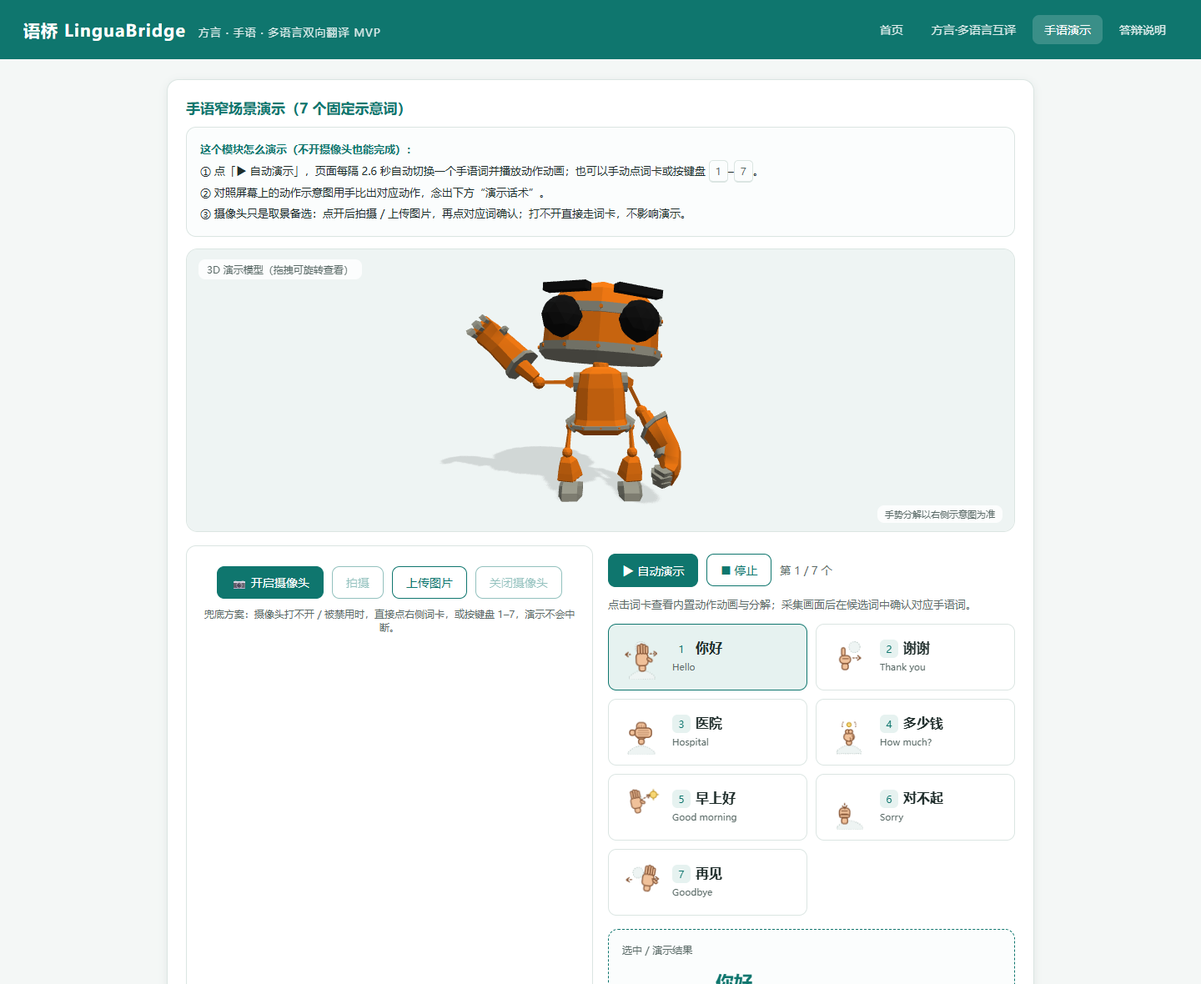
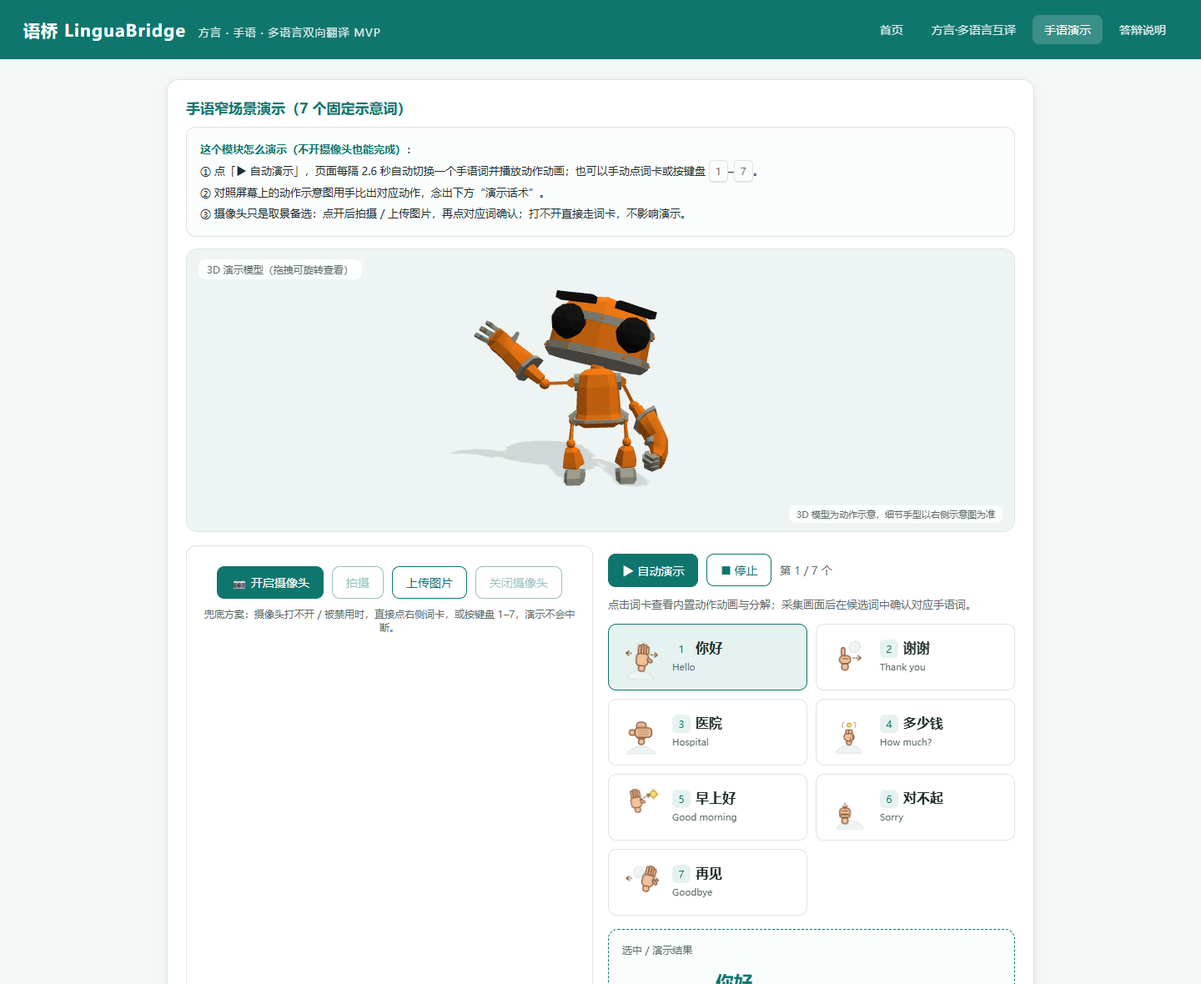
feat: 7 手语词各自绑定骨骼动画 + 粤语双向翻译（词库+两段式级联）

diff --git a/index.html b/index.html
@@ -147,33 +147,34 @@
 <script>
 /* ================= 离线演示词库 ================= */
 const PHRASES = [
-  {zh:"你好", sc:"你好呀", en:"Hello", ja:"こんにちは", ru:"Здравствуйте", scene:"问候"},
-  {zh:"谢谢", sc:"多谢了", en:"Thank you", ja:"ありがとうございます", ru:"Спасибо", scene:"感谢"},
-  {zh:"医院怎么走", sc:"医院咋个走", en:"How do I get to the hospital?", ja:"病院へはどう行きますか？", ru:"Как пройти в больницу?", scene:"问路·就医"},
-  {zh:"多少钱", sc:"好多钱", en:"How much is it?", ja:"いくらですか？", ru:"Сколько это стоит?", scene:"购物"},
-  {zh:"早上好", sc:"早上好哦", en:"Good morning", ja:"おはようございます", ru:"Доброе утро", scene:"问候"},
-  {zh:"对不起", sc:"对不住", en:"Sorry", ja:"ごめんなさい", ru:"Извините", scene:"道歉"},
-  {zh:"再见", sc:"下回摆", en:"Goodbye", ja:"さようなら", ru:"До свидания", scene:"告别"},
-  {zh:"我不舒服", sc:"我身上不安逸", en:"I don't feel well", ja:"気分が悪いです", ru:"Мне нездоровится", scene:"就医"},
-  {zh:"请问洗手间在哪", sc:"请问厕所在哪点儿", en:"Where is the restroom?", ja:"トイレはどこですか？", ru:"Где туалет?", scene:"问路"},
-  {zh:"帮我叫一下医生", sc:"帮我喊下医生", en:"Please call a doctor", ja:"医者を呼んでください", ru:"Пожалуйста, позовите врача", scene:"就医"},
-  {zh:"我想去医院看医生", sc:"我想去医院看下医生", en:"I want to go to the hospital to see a doctor", ja:"病院へ行って医者を診てもらいたいです", ru:"Я хочу пойти в больницу к врачу", scene:"就医"},
-  {zh:"请问附近有药店吗", sc:"请问附近有药店没得", en:"Is there a pharmacy nearby?", ja:"近くに薬局はありますか？", ru:"Рядом есть аптека?", scene:"就医·问路"},
-  {zh:"我有点头疼", sc:"我脑壳有点痛", en:"I have a slight headache", ja:"少し頭が痛いです", ru:"У меня немного болит голова", scene:"就医"},
-  {zh:"这个多少钱", sc:"这个好多钱", en:"How much does this cost?", ja:"これはいくらですか？", ru:"Сколько это стоит?", scene:"购物"},
-  {zh:"我迷路了", sc:"我遭迷路了", en:"I'm lost", ja:"道に迷いました", ru:"Я заблудился", scene:"问路"},
-  {zh:"请慢一点说", sc:"请说慢滴点儿", en:"Please speak slower", ja:"もっとゆっくり話してください", ru:"Пожалуйста, говорите медленнее", scene:"沟通"},
-  {zh:"我需要帮助", sc:"我需要搭个手", en:"I need help", ja:"助けが必要です", ru:"Мне нужна помощь", scene:"沟通"},
-  {zh:"请问地铁站在哪", sc:"请问地铁站在哪点儿", en:"Where is the subway station?", ja:"地下鉄の駅はどこですか？", ru:"Где станция метро?", scene:"问路"},
-  {zh:"今天天气很好", sc:"今天天气巴适得很", en:"The weather is nice today", ja:"今日はいい天気ですね", ru:"Сегодня хорошая погода", scene:"日常"},
-  {zh:"我是学生", sc:"我是学生娃", en:"I am a student", ja:"私は学生です", ru:"Я студент", scene:"介绍"},
-  {zh:"谢谢你的帮助", sc:"多谢你帮忙", en:"Thank you for your help", ja:"助けてくれてありがとうございます", ru:"Спасибо за помощь", scene:"感谢"},
-  {zh:"请帮我翻译这句话", sc:"帮我翻下这句话", en:"Please help me translate this sentence", ja:"この文を訳してください", ru:"Пожалуйста, переведите это предложение", scene:"沟通"}
+  {zh:"你好", sc:"你好呀", en:"Hello", ja:"こんにちは", ru:"Здравствуйте", yue:"你好", scene:"问候"},
+  {zh:"谢谢", sc:"多谢了", en:"Thank you", ja:"ありがとうございます", ru:"Спасибо", yue:"多謝", scene:"感谢"},
+  {zh:"医院怎么走", sc:"医院咋个走", en:"How do I get to the hospital?", ja:"病院へはどう行きますか？", ru:"Как пройти в больницу?", yue:"醫院點行呀？", scene:"问路·就医"},
+  {zh:"多少钱", sc:"好多钱", en:"How much is it?", ja:"いくらですか？", ru:"Сколько это стоит?", yue:"幾錢呀？", scene:"购物"},
+  {zh:"早上好", sc:"早上好哦", en:"Good morning", ja:"おはようございます", ru:"Доброе утро", yue:"早晨", scene:"问候"},
+  {zh:"对不起", sc:"对不住", en:"Sorry", ja:"ごめんなさい", ru:"Извините", yue:"對唔住", scene:"道歉"},
+  {zh:"再见", sc:"下回摆", en:"Goodbye", ja:"さようなら", ru:"До свидания", yue:"再見", scene:"告别"},
+  {zh:"我不舒服", sc:"我身上不安逸", en:"I don't feel well", ja:"気分が悪いです", ru:"Мне нездоровится", yue:"我唔舒服", scene:"就医"},
+  {zh:"请问洗手间在哪", sc:"请问厕所在哪点儿", en:"Where is the restroom?", ja:"トイレはどこですか？", ru:"Где туалет?", yue:"請問洗手間喺邊度？", scene:"问路"},
+  {zh:"帮我叫一下医生", sc:"帮我喊下医生", en:"Please call a doctor", ja:"医者を呼んでください", ru:"Пожалуйста, позовите врача", yue:"幫我叫下醫生", scene:"就医"},
+  {zh:"我想去医院看医生", sc:"我想去医院看下医生", en:"I want to go to the hospital to see a doctor", ja:"病院へ行って医者を診てもらいたいです", ru:"Я хочу пойти в больницу к врачу", yue:"我想去醫院睇醫生", scene:"就医"},
+  {zh:"请问附近有药店吗", sc:"请问附近有药店没得", en:"Is there a pharmacy nearby?", ja:"近くに薬局はありますか？", ru:"Рядом есть аптека?", yue:"請問附近有冇藥房？", scene:"就医·问路"},
+  {zh:"我有点头疼", sc:"我脑壳有点痛", en:"I have a slight headache", ja:"少し頭が痛いです", ru:"У меня немного болит голова", yue:"我個頭少少痛", scene:"就医"},
+  {zh:"这个多少钱", sc:"这个好多钱", en:"How much does this cost?", ja:"これはいくらですか？", ru:"Сколько это стоит?", yue:"呢個幾錢呀？", scene:"购物"},
+  {zh:"我迷路了", sc:"我遭迷路了", en:"I'm lost", ja:"道に迷いました", ru:"Я заблудился", yue:"我蕩失路喇", scene:"问路"},
+  {zh:"请慢一点说", sc:"请说慢滴点儿", en:"Please speak slower", ja:"もっとゆっくり話してください", ru:"Пожалуйста, говорите медленнее", yue:"請講慢少少", scene:"沟通"},
+  {zh:"我需要帮助", sc:"我需要搭个手", en:"I need help", ja:"助けが必要です", ru:"Мне нужна помощь", yue:"我需要幫手", scene:"沟通"},
+  {zh:"请问地铁站在哪", sc:"请问地铁站在哪点儿", en:"Where is the subway station?", ja:"地下鉄の駅はどこですか？", ru:"Где станция метро?", yue:"請問地鐵站喺邊度？", scene:"问路"},
+  {zh:"今天天气很好", sc:"今天天气巴适得很", en:"The weather is nice today", ja:"今日はいい天気ですね", ru:"Сегодня хорошая погода", yue:"今日天氣好好", scene:"日常"},
+  {zh:"我是学生", sc:"我是学生娃", en:"I am a student", ja:"私は学生です", ru:"Я студент", yue:"我係學生", scene:"介绍"},
+  {zh:"谢谢你的帮助", sc:"多谢你帮忙", en:"Thank you for your help", ja:"助けてくれてありがとうございます", ru:"Спасибо за помощь", yue:"多謝你幫手", scene:"感谢"},
+  {zh:"请帮我翻译这句话", sc:"帮我翻下这句话", en:"Please help me translate this sentence", ja:"この文を訳してください", ru:"Пожалуйста, переведите это предложение", yue:"請幫我翻譯呢句", scene:"沟通"}
 ];
 
 const LANGS = [
   {code:"zh", label:"普通话", tts:"zh-CN"},
   {code:"sc", label:"四川话（方言演示）", tts:"zh-CN"},
+  {code:"yue", label:"粤语（Cantonese）", tts:"zh-HK"},
   {code:"en", label:"英语", tts:"en-US"},
   {code:"ja", label:"日语", tts:"ja-JP"},
   {code:"ru", label:"俄语", tts:"ru-RU"}
@@ -288,10 +289,10 @@ const SIGNS = [
 const SIGN_META = [
   {en:"Hello", ja:"こんにちは", ru:"Здравствуйте", clip:"Wave", match:["你好","Hello","hello","こんにちは","Здравствуйте"]},
   {en:"Thank you", ja:"ありがとう", ru:"Спасибо", clip:"ThumbsUp", match:["谢谢","谢谢你的帮助","Thank you","thank you","Спасибо"]},
-  {en:"Hospital", ja:"病院", ru:"Больница", clip:"Idle", match:["医院","医院怎么走","我想去医院看医生","hospital","Hospital"]},
-  {en:"How much?", ja:"いくら？", ru:"Сколько?", clip:"Idle", match:["多少钱","这个多少钱","How much","how much"]},
-  {en:"Good morning", ja:"おはよう", ru:"Доброе утро", clip:"Idle", match:["早上好","Good morning","good morning"]},
-  {en:"Sorry", ja:"ごめんなさい", ru:"Извините", clip:"Idle", match:["对不起","Sorry","sorry"]},
+  {en:"Hospital", ja:"病院", ru:"Больница", clip:"Punch", match:["医院","医院怎么走","我想去医院看医生","hospital","Hospital"]},
+  {en:"How much?", ja:"いくら？", ru:"Сколько?", clip:"Dance", match:["多少钱","这个多少钱","How much","how much"]},
+  {en:"Good morning", ja:"おはよう", ru:"Доброе утро", clip:"Jump", match:["早上好","Good morning","good morning"]},
+  {en:"Sorry", ja:"ごめんなさい", ru:"Извините", clip:"No", match:["对不起","Sorry","sorry"]},
   {en:"Goodbye", ja:"さようなら", ru:"До свидания", clip:"Wave", match:["再见","Goodbye","goodbye","さようなら","До свидания"]}
 ];
 SIGNS.forEach((s,i)=>Object.assign(s, SIGN_META[i]));
@@ -310,6 +311,46 @@ const app = $("#app");
 function langLabel(code){ const l=LANGS.find(x=>x.code===code); return l?l.label:code; }
 function ttsCode(code){ const l=LANGS.find(x=>x.code===code); return l?l.tts:"zh-CN"; }
 function mtCode(code){ return code==="sc"?"zh":code; }
+
+/* —— 粤语离线词表（双向，人工校对，答辩演示用） —— */
+const YUE_ZH = {
+ "唔該":"谢谢","唔該晒":"非常感谢","多謝":"谢谢","醫院點行":"医院怎么走","點行":"怎么走",
+ "幾錢":"多少钱","幾多錢":"多少钱","早晨":"早上好","對唔住":"对不起","再見":"再见","拜拜":"再见",
+ "唔使客氣":"不客气","洗手間喺邊度":"洗手间在哪","喺邊度":"在哪里","喺邊":"在哪里","我唔知":"我不知道",
+ "我唔舒服":"我不舒服","食飯":"吃饭","飲茶":"喝茶","埋單":"结账","幾點":"几点","返工":"上班",
+ "放工":"下班","屋企":"家","巴士":"公交车","的士":"出租车","地鐵":"地铁","藥房":"药店",
+ "醫院":"医院","學生":"学生","老師":"老师","朋友":"朋友","好攰":"很累","好食":"好吃",
+ "而家":"现在","聽日":"明天","尋日":"昨天","點解":"为什么","邊個":"谁","蕩失路":"迷路",
+ "幫手":"帮忙","睇醫生":"看医生","地鐵站":"地铁站","廁所":"洗手间","呢個":"这个","嗰個":"那个"
+};
+const ZH_YUE = {};
+Object.keys(YUE_ZH).forEach(k=>{ const v=YUE_ZH[k]; if(!ZH_YUE[v]) ZH_YUE[v]=k; });
+
+/* 粤语 ↔ 普通话：先整句词卡，再逐词替换 */
+function yueTranslate(text, from, to){
+  const t=String(text||"").trim();
+  if(!t) return null;
+  const bare = t.replace(/[？?！!。，,、\s]/g,"");
+  if(from==="yue" && to==="zh"){
+    const card = PHRASES.find(p=>p.yue===t || p.yue===bare || (p.yue&&p.yue.replace(/[？?！!。，,]/g,"")===bare));
+    if(card) return card.zh;
+    if(YUE_ZH[bare]) return YUE_ZH[bare];
+    let s=t, hit=false;
+    Object.keys(YUE_ZH).forEach(k=>{ if(s.indexOf(k)>=0){ s=s.split(k).join(YUE_ZH[k]); hit=true; } });
+    return hit ? s.replace(/\s+/g," ").trim() : null;
+  }
+  if(from==="zh" && to==="yue"){
+    const card = PHRASES.find(p=>p.zh===t || p.zh===bare);
+    if(card) return card.yue;
+    if(ZH_YUE[bare]) return ZH_YUE[bare];
+    let s=t, hit=false;
+    Object.keys(ZH_YUE).forEach(k=>{ if(s.indexOf(k)>=0){ s=s.split(k).join(ZH_YUE[k]); hit=true; } });
+    return hit ? s : null;
+  }
+  if(from==="zh" && to==="en"){ return null; }
+  return null;
+}
+function isYue(code){ return code==="yue"; }
 
 /* ================= 路由 ================= */
 function route(){
@@ -333,7 +374,7 @@ function renderHome(){
     </div>
     <div class="grid grid-3">
       <div class="mod"><div class="tag">核心模块 1</div><h3>方言 · 多语言互译</h3>
-        <p class="muted">普通话 ↔ 四川话，可切换英语 / 日语 / 俄语；支持自由输入长句，联网在线翻译 + 离线词库兜底，支持双向交换与语音朗读。</p></div>
+        <p class="muted">普通话 ↔ 四川话 / 粤语，可切换英语 / 日语 / 俄语；支持自由输入长句，联网在线翻译 + 离线词库兜底（粤语↔普通话有 22 个常用句的人工校对词库），支持双向交换与语音朗读。</p></div>
       <div class="mod"><div class="tag">核心模块 2</div><h3>手语窄场景演示</h3>
         <p class="muted">7 个固定常用手语词，每个词配内置动作示意图；摄像头取景 / 上传图片 / 词卡点选 / 键盘 1–7 兜底，反向点词查看动作分解。</p></div>
       <div class="mod"><div class="tag">答辩材料</div><h3>演示脚本与边界话术</h3>
@@ -398,7 +439,8 @@ function drawBank(){
   bank.innerHTML = PHRASES.map((p,i)=>`
     <div class="bank-item ${state.bankIndex===i?"active":""}" data-i="${i}">
       <div class="zh">${p.zh} <span class="muted">· ${p.scene}</span></div>
-      <div class="sc">方言：${p.sc}</div>
+      <div class="sc">四川话：${p.sc}</div>
+      <div class="sc">粤语：${p.yue||""}</div>
     </div>`).join("");
   bank.querySelectorAll(".bank-item").forEach(el=>{
     el.onclick = ()=>{
@@ -414,7 +456,8 @@ function drawBank(){
 function matchPhrase(text){
   if(!text) return null;
   const t = text.trim();
-  return PHRASES.find(p=> p.zh===t || p.sc===t || p.en===t || p.ja===t || p.ru===t) || null;
+  const bare = t.replace(/[？?！!。，,、\s]/g,"");
+  return PHRASES.find(p=> p.zh===t || p.sc===t || p.en===t || p.ja===t || p.ru===t || p.yue===t || p.yue===bare) || null;
 }
 
 async function mtOnline(text, from, to){
@@ -489,9 +532,38 @@ async function doTranslate(text){
   const p = matchPhrase(text);
   if(p){ renderBankResult(p, text); return; }
 
+  // 粤语 ↔ 普通话：先用人工校对的离线词库，命中就直接给结果（这一路是“准确”的）
+  if(isYue(state.src) || isYue(state.tgt)){
+    const yueRes = yueTranslate(text, state.src, state.tgt);
+    if(yueRes){
+      state.lastResult = {text:yueRes, code:state.tgt};
+      addConvo({srcLabel:langLabel(state.src), srcText:text, tgtLabel:langLabel(state.tgt), tgtText:yueRes, badge:"粤语词库", badgeClass:"fallback"});
+      area.innerHTML = `
+        <div class="result">
+          <div class="lang-label">${langLabel(state.src)} 原文</div>
+          <div class="big">${text}</div>
+          <div class="lang-label" style="margin-top:10px">${langLabel(state.tgt)} 译文 <span class="badge fallback">粤语离线词库（人工校对）</span></div>
+          <div class="big" style="color:var(--teal)">${yueRes}</div>
+          <div class="row"><button class="mini" id="curCard">🖼 大字卡片</button></div>
+          ${signBridgeBtn(text+" "+yueRes)}
+          <p class="note">该结果来自内置的粤语对照词库（覆盖 22 个常用句 + 数十个高频词），可放心当作“准确翻译”演示；词库外的句子会转在线接口，仅作参考。</p>
+        </div>`;
+      $("#curCard").onclick=()=>openBigCard(state.convo.length-1);
+      wireToSign(text+" "+yueRes);
+      focusResult();
+      return;
+    }
+  }
+
   status.innerHTML = `<span class="loading">正在调用在线翻译…</span>`;
   area.innerHTML = `<div class="result"><div class="loading">正在翻译，请稍候…</div></div>`;
-  const res = await mtOnline(text, state.src, state.tgt);
+  // 粤语 → 其他语言：先用人工词库把粤语转成普通话，再把普通话在线转成目标语言（两段式，质量更稳）
+  let work=text, from=state.src, to=state.tgt, chain="";
+  if(isYue(state.src) && state.tgt!=="zh" && state.tgt!=="yue"){
+    const mid=yueTranslate(text,"yue","zh");
+    if(mid){ work=mid; from="zh"; chain=`粤语→普通话（离线词库）→${langLabel(state.tgt)}（在线）`; }
+  }
+  const res = await mtOnline(work, from, to);
   status.innerHTML = "";
   if(res){
     state.lastResult = {text:res.text, code:state.tgt};
@@ -504,7 +576,13 @@ async function doTranslate(text){
         <div class="big" style="color:var(--teal)">${res.text}</div>
         <div class="row"><button class="mini" id="curCard">🖼 大字卡片</button></div>
         ${signBridgeBtn(text+" "+res.text)}
-        <p class="note">长句由在线翻译接口生成；方言（四川话）仅做文字演示，方言语音合成不在本版范围。</p>
+        <p class="note">${chain
+          ? "本结果分两步生成：" + chain + "（第一步用的人工校对粤语词库，第二步为在线机器翻译）。"
+          : ((isYue(state.src)||isYue(state.tgt))
+            ? (isYue(state.src)
+              ? "粤语作为源语言时走的是参考级机器翻译（输出以简体普通话或英文呈现）；想演示“准确”，请用上面词库里人工校对过的 22 个常用句。"
+              : "粤语作为目标语言时输出为繁体粤语字，在线结果为参考级；上面词库里的 22 个常用句是人工校对版。")
+            : "长句由在线翻译接口生成；方言（四川话 / 粤语）仅在词库范围内做文字演示，方言语音合成不在本版范围。")}</p>
       </div>`;
     $("#curCard").onclick=()=>openBigCard(state.convo.length-1);
     wireToSign(text+" "+res.text);
@@ -557,7 +635,8 @@ function renderBankResult(p, text){
       ${signBridgeBtn(srcText+" "+tgtText)}
       <div class="pairs">
         <div class="pair"><div class="k">英语</div><div class="v">${p.en}</div></div>
-        <div class="pair"><div class="k">日语</div><div class="v">${p.ja}</div></div>
+        <div class="pair"><div class="k">粤语</div><div class="v">${p.yue||""}</div></div>
+      <div class="pair"><div class="k">日语</div><div class="v">${p.ja}</div></div>
         <div class="pair"><div class="k">俄语</div><div class="v">${p.ru}</div></div>
         <div class="pair"><div class="k">场景</div><div class="v">${p.scene}</div></div>
       </div>
@@ -597,7 +676,11 @@ function toggleAutoDemo(){ demo.playing ? pauseAutoDemo() : resumeAutoDemo(); }
 function syncDemoBtn(){ const b=$("#demoToggle"); if(!b) return; b.textContent=demo.playing?"⏸ 暂停":"▶ 自动演示"; }
 
 /* ================= 3D 演示舞台（离线 three.js + 内置模型） ================= */
-const stage = { renderer:null, scene:null, camera:null, mixer:null, controls:null, clips:{}, clock:null, raf:0, ready:false };
+const stage = { renderer:null, scene:null, camera:null, mixer:null, controls:null, clips:{}, clock:null, raf:0, ready:false, bones:null, signIdx:0, signT0:0 };
+const SIGN_BONES=["UpperArmR","LowerArmR","HandR"];
+// 每个词选用模型自带的、真的有肢体动作的动画片段
+const SIGN_CLIP=["Wave","ThumbsUp","Punch","Dance","Jump","No","Wave"];
+const SIGN_SPEED=[1,1,1,1.1,1,1,1];
 function stageFallback(host, msg){ if(host) host.innerHTML=`<div class="stage-fallback">${msg}</div>`; }
 function initStage3d(){
   const host=$("#stage3d"); if(!host) return;
@@ -607,7 +690,7 @@ function initStage3d(){
     stage.scene=new THREE.Scene();
     stage.scene.background=new THREE.Color(0xeef4f3);
     stage.camera=new THREE.PerspectiveCamera(42,w/h,.1,100);
-    stage.camera.position.set(0,1.3,3.6);
+    stage.camera.position.set(0,1.35,4.15);
     stage.renderer=new THREE.WebGLRenderer({antialias:true,alpha:true});
     stage.renderer.setPixelRatio(Math.min(window.devicePixelRatio||1,2));
     stage.renderer.setSize(w,h);
@@ -622,7 +705,7 @@ function initStage3d(){
     stage.controls=new THREE.OrbitControls(stage.camera, stage.renderer.domElement);
     stage.controls.target.set(0,1.0,0); stage.controls.enablePan=false;
     stage.controls.minDistance=2.2; stage.controls.maxDistance=6;
-    stage.controls.autoRotate=true; stage.controls.autoRotateSpeed=1.2;
+    stage.controls.autoRotate=false; stage.controls.autoRotateSpeed=1.2;
     stage.clock=new THREE.Clock();
     const b64=window.ROBOT_GLB_B64||"";
     const bin=Uint8Array.from(atob(b64), c=>c.charCodeAt(0));
@@ -638,6 +721,8 @@ function initStage3d(){
       const c=box.getCenter(new THREE.Vector3());
       model.position.x-=c.x; model.position.z-=c.z; model.position.y-=box.min.y;
       stage.scene.add(model);
+      stage.model=model;
+      stage.baseY=model.position.y;
       stage.clips={}; g.animations.forEach(c=>stage.clips[c.name]=c);
       stage.mixer=new THREE.AnimationMixer(model);
       stage.ready=true;
@@ -651,14 +736,52 @@ function initStage3d(){
 function playSignClip(i){
   if(!stage.mixer || !stage.ready) return;
   const s=SIGNS[i]; if(!s) return;
+  stage.signIdx=i;
+  stage.signT0=performance.now()/1000;
   stage.mixer.stopAllAction();
-  const clip=stage.clips[s.clip]||stage.clips.Idle;
-  if(clip) stage.mixer.clipAction(clip).reset().play();
+  // 每个词都用模型自带动画里“真的会动”的那几支（Wave/ThumbsUp/Walking/Dance/Jump/No），
+  // 再叠加一次整体姿态（点头/鞠躬/侧倾），让 7 个词的动作彼此区分
+  const name=SIGN_CLIP[i]||"Idle";
+  const clip=stage.clips[name]||stage.clips.Idle;
+  if(clip){
+    const act=stage.mixer.clipAction(clip);
+    act.reset(); act.setLoop(THREE.LoopRepeat, Infinity); act.timeScale=SIGN_SPEED[i]||1; act.play();
+  }
+}
+
+/* 每个手语词的整体姿态编排（叠加在自带动画之上，保证动作明显、彼此可辨） */
+function signPose(i,t){
+  const TAU=Math.PI*2;
+  switch(i){
+    case 0: // 你好：挥手 + 轻微侧倾点头
+      return {rx:0, ry:0, rz:0.05*Math.sin(TAU*1.0*t), dy:0.02*Math.sin(TAU*1.0*t)};
+    case 1: // 谢谢：竖拇指 + 前倾致意
+      return {rx:0.18*Math.max(0,Math.sin(TAU*0.9*t)), ry:0, rz:0, dy:0};
+    case 2: // 医院：迈步（Walking）+ 左右转头看向方向
+      return {rx:0.03, ry:0.32*Math.sin(TAU*0.55*t), rz:0.04*Math.sin(TAU*0.55*t), dy:0};
+    case 3: // 多少钱：双手摆动（Dance）+ 身体左右晃
+      return {rx:0, ry:0, rz:0.09*Math.sin(TAU*2.4*t), dy:0.015*Math.sin(TAU*2.4*t)};
+    case 4: // 早上好：跳起（Jump）+ 身体上弹
+      return {rx:0, ry:0, rz:0, dy:0.03*Math.abs(Math.sin(TAU*1.1*t))};
+    case 5: // 对不起：摆手（No）+ 低头鞠躬
+      return {rx:0.26*Math.max(0,Math.sin(TAU*0.8*t)), ry:0, rz:0, dy:0};
+    case 6: // 再见：挥手 + 大幅左右摆
+      return {rx:0, ry:0, rz:0.12*Math.sin(TAU*1.4*t), dy:0.02*Math.sin(TAU*1.4*t)};
+    default: return {rx:0,ry:0,rz:0,dy:0};
+  }
+}
+function applySignPose(){
+  if(!stage.ready||!stage.model) return;
+  const t=performance.now()/1000-(stage.signT0||0);
+  const p=signPose(stage.signIdx||0,t);
+  stage.model.rotation.set(p.rx,p.ry,p.rz);
+  stage.model.position.y=(stage.baseY||0)+p.dy;
 }
 function loop3d(){
   stage.raf=requestAnimationFrame(loop3d);
   const dt=stage.clock?stage.clock.getDelta():0;
   if(stage.mixer) stage.mixer.update(dt);
+  applySignPose();
   if(stage.controls) stage.controls.update();
   if(stage.renderer&&stage.scene&&stage.camera) stage.renderer.render(stage.scene,stage.camera);
 }
@@ -686,7 +809,7 @@ function renderSign(){
       </div>
       <div class="stage3d" id="stage3d">
         <span class="stage-tag">3D 演示模型（拖拽可旋转查看）</span>
-        <span class="stage-note">手势分解以右侧示意图为准</span>
+        <span class="stage-note">3D 模型为动作示意，细节手型以右侧示意图为准</span>
       </div>
       <div class="sign-layout">
         <div class="cam-box">
@@ -812,6 +935,7 @@ function renderDefense(){
       <h2>3 分钟演示脚本（建议顺序）</h2>
       <div class="step"><div class="n">1</div><div><strong>开场（20 秒）：</strong>介绍项目名 LinguaBridge，目标是帮方言使用者、外语沟通者和听障人群做跨语言沟通；说明今天演示的是 MVP 原型。</div></div>
       <div class="step"><div class="n">2</div><div><strong>方言·多语言互译（60 秒）：</strong>打开互译页，选源语言四川话、目标语言英语；先点词卡展示离线短句，再在输入框打一句长句（如“我想去医院看医生”）展示在线翻译；切换日语 / 俄语，点「⇄」交换方向演示反向链路。</div></div>
+      <div class="step"><div class="n">2.5</div><div><strong>粤语链路（30 秒）：</strong>源语言切“粤语”，输入“醫院點行呀？”→ 词库直出“医院怎么走”；再点「⇄」演示普通话→粤语（“多少钱”→“幾錢呀？”）；最后演示粤语→英语的两段式（粤语先经词库转普通话，再在线转英文）。讲清口径：词库内 22 个常用句是人工校对的准确结果，词库外为参考级在线翻译。</div></div>
       <div class="step"><div class="n">3</div><div><strong>手语演示（60 秒）：</strong>打开手语页，点「▶ 自动演示」逐个播放 7 个词的动作动画；对照示意图用手比动作，念出每个词的演示话术。摄像头为备选取景，打不开直接点词卡或按 1–7，不影响演示。</div></div>
       <div class="step"><div class="n">4</div><div><strong>收尾与边界（40 秒）：</strong>回到本页，讲清评测设计、当前边界和后续规划；强调先跑通一个真实沟通场景的闭环，再扩展词汇与语种。</div></div>
     </div>

diff --git a/README.md b/README.md
@@ -43,7 +43,7 @@
 
 | 模块 | 已实现 | 明确不做 |
 |---|---|---|
-| 方言·多语言互译 | 普通话 / 四川话 / 英语 / 日语 / 俄语切换；22 条离线场景短句；长句在线翻译（MyMemory → Google 兜底）；英语离线词表 + 句式规则兜底；多轮对话记录；大字对照卡片（投屏用）；语音朗读 | 方言语音识别（ASR）未接入；方言语音合成不做；不承诺翻译质量达到人工水平 |
+| 方言·多语言互译 | 普通话 / 四川话 / **粤语** / 英语 / 日语 / 俄语切换；22 条离线场景短句（每条含四川话 + 粤语双方言对照）；长句在线翻译（MyMemory → Google 兜底）；粤语↔普通话人工词库 + 粤→外两段式级联；英语离线词表 + 句式规则兜底；多轮对话记录；大字对照卡片（投屏用）；语音朗读（粤语用 zh-HK） | 方言语音识别（ASR）未接入；方言语音合成不做；粤语仅在词库范围内承诺准确 |
 | 手语演示 | 7 个固定示意词；每个词含手位、三步动作分解、使用场景、要点提示、演示话术；3D 舞台（可拖拽旋转，内置动作片段）；自动演示 / 词卡 / 键盘 1–7 / 摄像头取景四路兜底 | 连续手语识别；手语生成（文字→手语动画）；真实手语语法 |
 | 互通 | 互译结果命中已收录词时，可一键跳到对应手语词 | 任意句子自动转手语 |
 
@@ -82,6 +82,8 @@ LinguaBridge/
 
 - **前端**：原生 HTML/CSS/JS，无框架、无构建步骤；`#/home`、`#/translate`、`#/sign`、`#/defense` 四视图 hash 路由。
 - **翻译链**：`MyMemory` → `Google gtx` → 离线规则，逐级降级，每级 3s 超时；线上失败立即回落，不阻塞演示。
+- **粤语链路（两段式）**：粤语 ↔ 普通话先走**人工校对词库**（22 个常用句 + 40 余个高频词，繁体字形），命中即直出，这一路是可以当"准确翻译"演示的；粤语 → 英语/日语/俄语则先用词库把粤语转成普通话，再走在线翻译，避免"粤语直接对英文"的误译（实测 `醫院點行 → yue→en` 会翻成 *How does the hospital act*）。
+- **3D 手语动作**：模型内置 14 支骨骼动画（Wave / ThumbsUp / Punch / Dance / Jump / No / Yes / Walking…）。7 个词分别绑定其中有肢体动作的片段，再叠加一层整体姿态（挥手侧倾、鞠躬、转头、上弹、左右摆），保证每个词都有可见且互不相同的动作。模型自带动画的骨骼层级与可见网格不一致，逐骨骼旋转不生效，因此改用"整段动画 + 整体姿态"的组合方案。
 - **离线兜底**：约 70 词英语词表 + 8 类句式模板（请问X在哪 / 我想去X / 我是X / 我喜欢X…）。
 - **语音**：Web Speech API（`speechSynthesis`），语种随目标语言切换。
 - **3D**：three.js r128 + 内置 GLB，加载后按包围盒自适应缩放并落地；不支持 WebGL 时自动回退为平面示意图。
@@ -89,11 +91,12 @@ LinguaBridge/
 ## 六、已知限制
 
 1. 在线翻译依赖第三方免费接口，配额受限，属"有时可用"，离线兜底是主路径。
-2. 3D 模型为开源占位模型（躯干与手臂位置参照），**不是**写实手语动作捕捉；具体手型以平面示意图与动作分解为准。
-3. 手语仅 7 个孤立词，不具备语法与连续表达能力。
-4. 四川话为词库映射演示，未接语音识别。
-5. 翻译质量未经评测集量化，暂无准确率数字。
-6. 无后端、无用户系统，数据不落库。
+2. 3D 模型为开源占位模型（RobotExpressive），动作取自其内置骨骼动画并按语义做近似绑定，**不是**写实手语动作捕捉；模型只做"动作正在发生"的示意，具体手型以页面右侧示意图与动作分解为准。
+3. 粤语仅在词库覆盖的 22 个常用句内可称为准确；词库外的粤语句子走在线机器翻译，属参考级，且输出多为繁体字。
+4. 手语仅 7 个孤立词，不具备语法与连续表达能力。
+5. 四川话 / 粤语均为词库映射演示，未接语音识别。
+6. 翻译质量未经评测集量化，暂无准确率数字。
+7. 无后端、无用户系统，数据不落库。
 
 ## 七、路线图
 
@@ -101,6 +104,7 @@ LinguaBridge/
 - [ ] 词库按场景分组扩充至 60 条以上
 - [ ] 手语词表扩展至 12–15 个，补手型动画
 - [ ] 接入 ASR，跑通「方言语音 → 文本 → 翻译 → TTS」完整链路
+- [ ] 粤语词库按场景分组扩充至 60 句，并引入粤语专用 ASR / TTS
 - [ ] 手语侧：摄像头手部关键点 → 轻量分类器，做 7 词闭集识别
 
 ## 八、素材与许可
